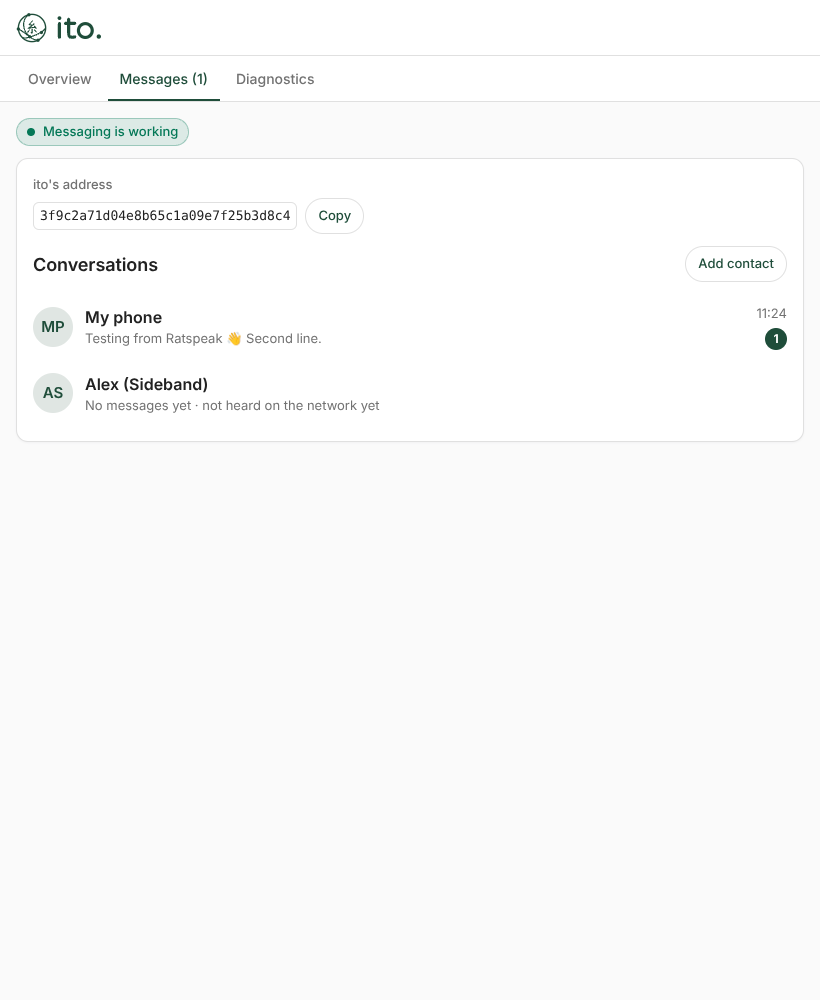
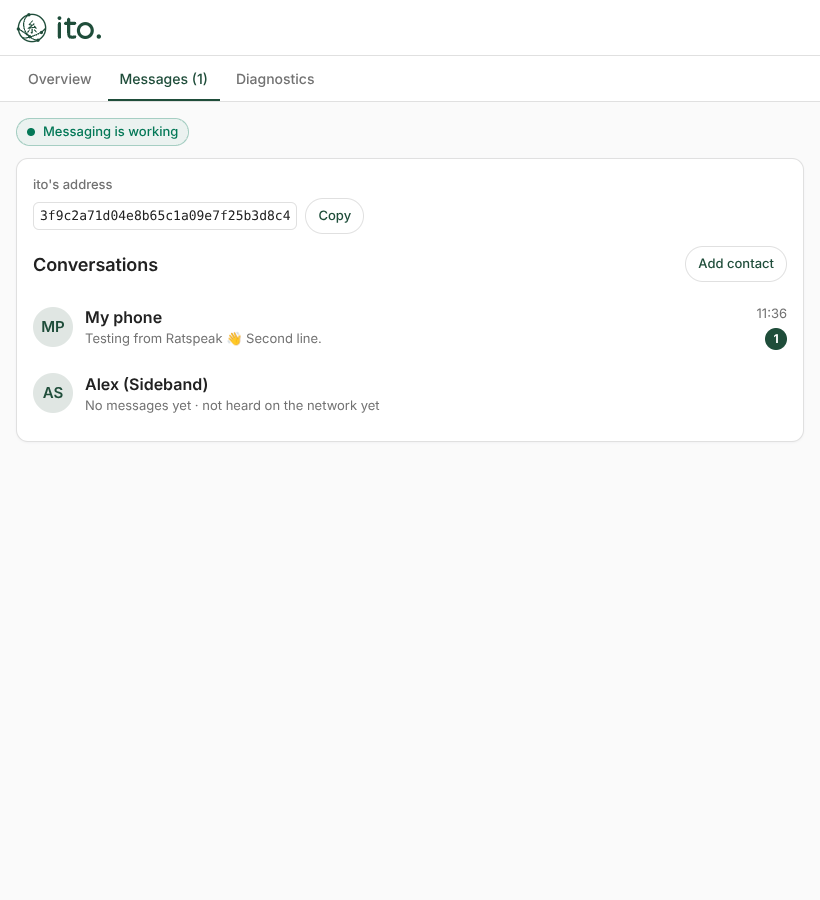
Improve contrast in branded messaging views

Changed region(s): [[0.0, 0.0, 0.4573, 0.4667], [0.8537, 0.2489, 0.9756, 0.4044], [0.3963, 0.1867, 0.4268, 0.2489]]

diff --git a/custom_components/meshbeacon/frontend/ui/style.js b/custom_components/meshbeacon/frontend/ui/style.js
@@ -137,6 +137,7 @@ dl { margin: 0; }
 .messages-main { max-width: 1280px; }
 .msg { display: grid; gap: var(--mb-space-md); }
 .msg-status { display: flex; flex-wrap: wrap; align-items: center; gap: var(--mb-space-sm); }
+.msg-status .chip { background: color-mix(in srgb, var(--tone, var(--mb-neutral)) 6%, transparent); }
 .msg-status > span { display: inline-flex; flex-wrap: wrap; align-items: center; gap: var(--mb-space-sm); }
 .msg-panes { display: grid; gap: var(--mb-space-lg); grid-template-columns: minmax(0, 1fr); }
 @media (min-width: 870px) { .msg-panes { grid-template-columns: minmax(280px, 360px) minmax(0, 1fr); align-items: start; } }
@@ -161,6 +162,7 @@ dl { margin: 0; }
 .conversations { list-style: none; margin: 0 calc(-1 * var(--mb-space-sm)); padding: 0; display: grid; gap: 2px; }
 .conversation { display: grid; grid-template-columns: auto minmax(0, 1fr) auto; gap: 12px; align-items: center; width: 100%; text-align: left; font: inherit; color: inherit; background: none; border: 0; border-radius: var(--mb-radius-sm); padding: 10px var(--mb-space-sm); cursor: pointer; min-height: 56px; }
 .conversation:hover { background: color-mix(in srgb, var(--mb-accent) 6%, transparent); }
+.conversation:is(:hover, [aria-current="true"]) .muted { color: var(--mb-text); }
 .conversation[aria-current="true"] { background: color-mix(in srgb, var(--mb-accent) 12%, transparent); }
 .avatar { width: 40px; height: 40px; border-radius: 50%; display: grid; place-items: center; flex: none; font-weight: 600; font-size: 15px; color: var(--mb-accent-text); background: color-mix(in srgb, var(--mb-accent) 14%, var(--mb-surface)); }
 .who { display: grid; min-width: 0; }
@@ -186,12 +188,12 @@ dl { margin: 0; }
 .day { align-self: center; padding: 8px 0 2px; font-weight: 500; }
 .bubble { max-width: min(78%, 560px); padding: 8px 12px; border-radius: 16px; display: grid; gap: 2px; }
 .bubble.in { align-self: flex-start; background: color-mix(in srgb, var(--mb-neutral) 12%, var(--mb-surface)); border: 1px solid var(--mb-line); border-bottom-left-radius: 4px; }
-.bubble.out { align-self: flex-end; background: color-mix(in srgb, var(--mb-accent) 16%, var(--mb-surface)); border: 1px solid color-mix(in srgb, var(--mb-accent) 30%, transparent); border-bottom-right-radius: 4px; }
-.bubble.auto { opacity: 0.8; font-style: italic; }
-.bubble.local { opacity: 0.7; }
+.bubble.out { align-self: flex-end; background: color-mix(in srgb, var(--mb-accent) 10%, var(--mb-surface)); border: 1px solid color-mix(in srgb, var(--mb-accent) 30%, transparent); border-bottom-right-radius: 4px; }
+.bubble.auto { font-style: italic; }
+.bubble.local { border-style: dashed; }
 .bubble .text { white-space: pre-wrap; overflow-wrap: anywhere; font-size: 15px; }
-.auto-label { color: var(--mb-muted); font-style: normal; font-weight: 500; }
-.bubble-meta { display: flex; flex-wrap: wrap; align-items: center; justify-content: flex-end; gap: 4px 10px; color: var(--mb-muted); font-style: normal; }
+.auto-label { color: var(--mb-text); font-style: normal; font-weight: 500; }
+.bubble-meta { display: flex; flex-wrap: wrap; align-items: center; justify-content: flex-end; gap: 4px 10px; color: var(--mb-text); font-style: normal; }
 .bubble.in .bubble-meta { justify-content: flex-start; }
 .bubble-meta .state { display: inline-flex; align-items: center; gap: 3px; color: var(--tone-text); font-weight: 500; }
 .bubble-meta .state ha-icon { --mdc-icon-size: 15px; }
